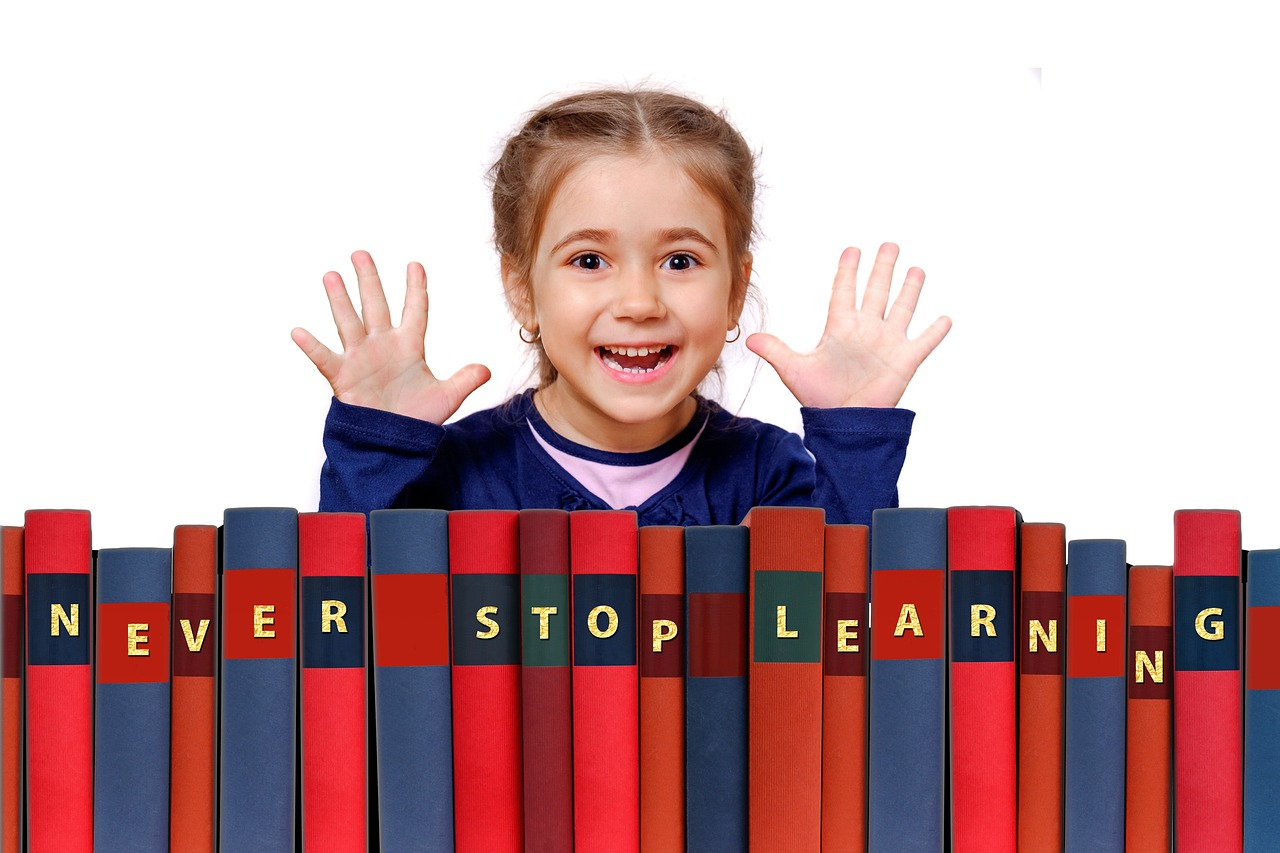
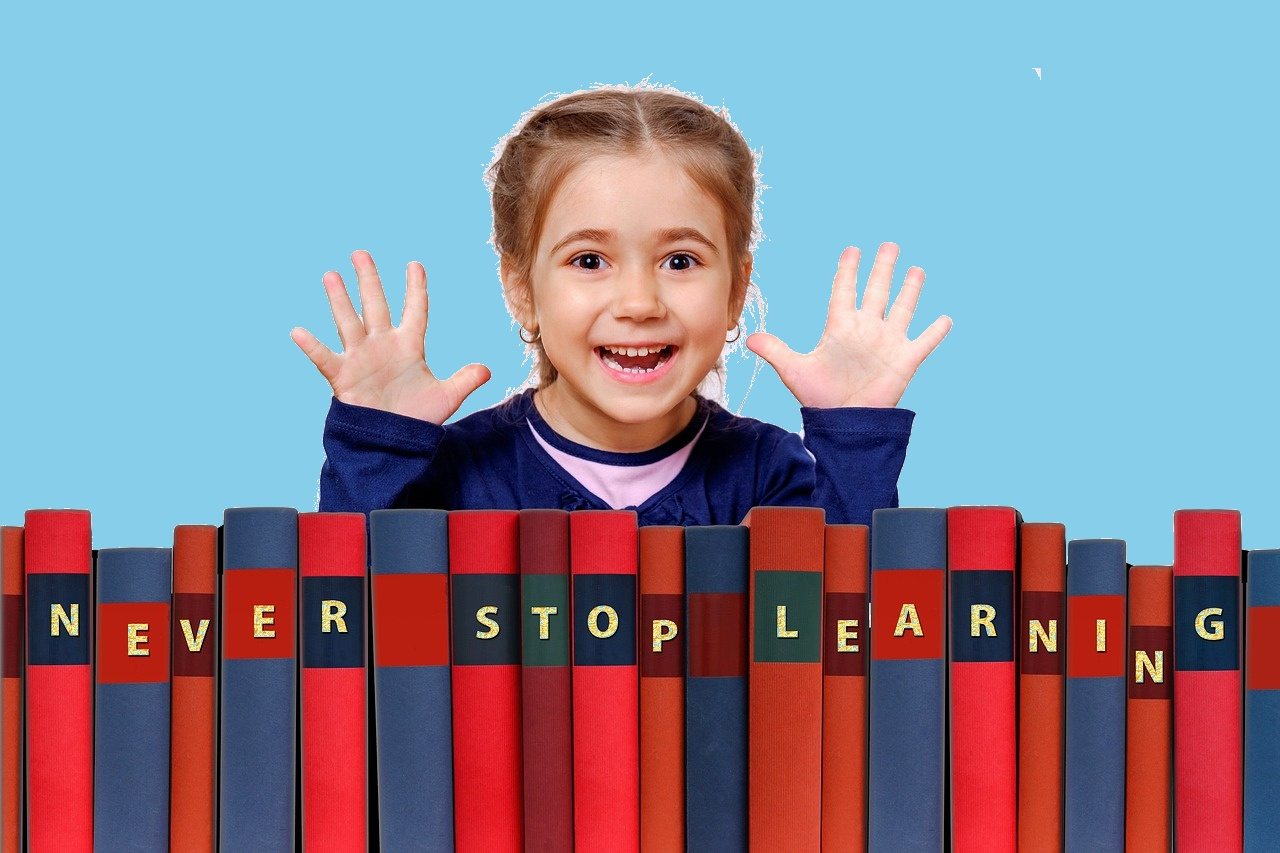
updated aboutus page

diff --git a/frontend/src/components/About_Us/About_Us.css b/frontend/src/components/About_Us/About_Us.css
@@ -2,8 +2,9 @@
     display: flex;
     align-items: center;
     justify-content: center;
-    background-color: #fff;
+    background-color: beige;
     padding: 10px;
+    margin-top: 10px;
 }
 .image-container {
     flex: 1;
@@ -64,12 +65,15 @@
     color: black;
     font-weight: bold;
     padding-top: 20px;
-    padding-left: 10px;
+    padding-left: 20px;
     font-family: nunito;
 }
 .carousel-text {
     color: #12265A;
-    margin-left: 10px;
+    margin-left: 20px;
     font-family: nunito;
     max-width: 60%;
 }
+
+
+

diff --git a/frontend/src/components/About_Us/About_Us.jsx b/frontend/src/components/About_Us/About_Us.jsx
@@ -1,7 +1,7 @@
 import React, { useState, useEffect } from "react";
 import "./About_Us.css";
 import logo from "../../assets/kinderpic.jpeg";
-import bg1 from "../../assets/carosal1.jpg";
+import bg1 from "../../assets/carosal5.png";
 import bg2 from "../../assets/carosal2.jpg";
 import bg3 from "../../assets/carosal3.jpg";
 
@@ -41,7 +41,6 @@ export default function AboutUs() {
         </div>
       </div>
       
-
       {/* Background Image Carousel */}
       <div
         className="mid-div"
